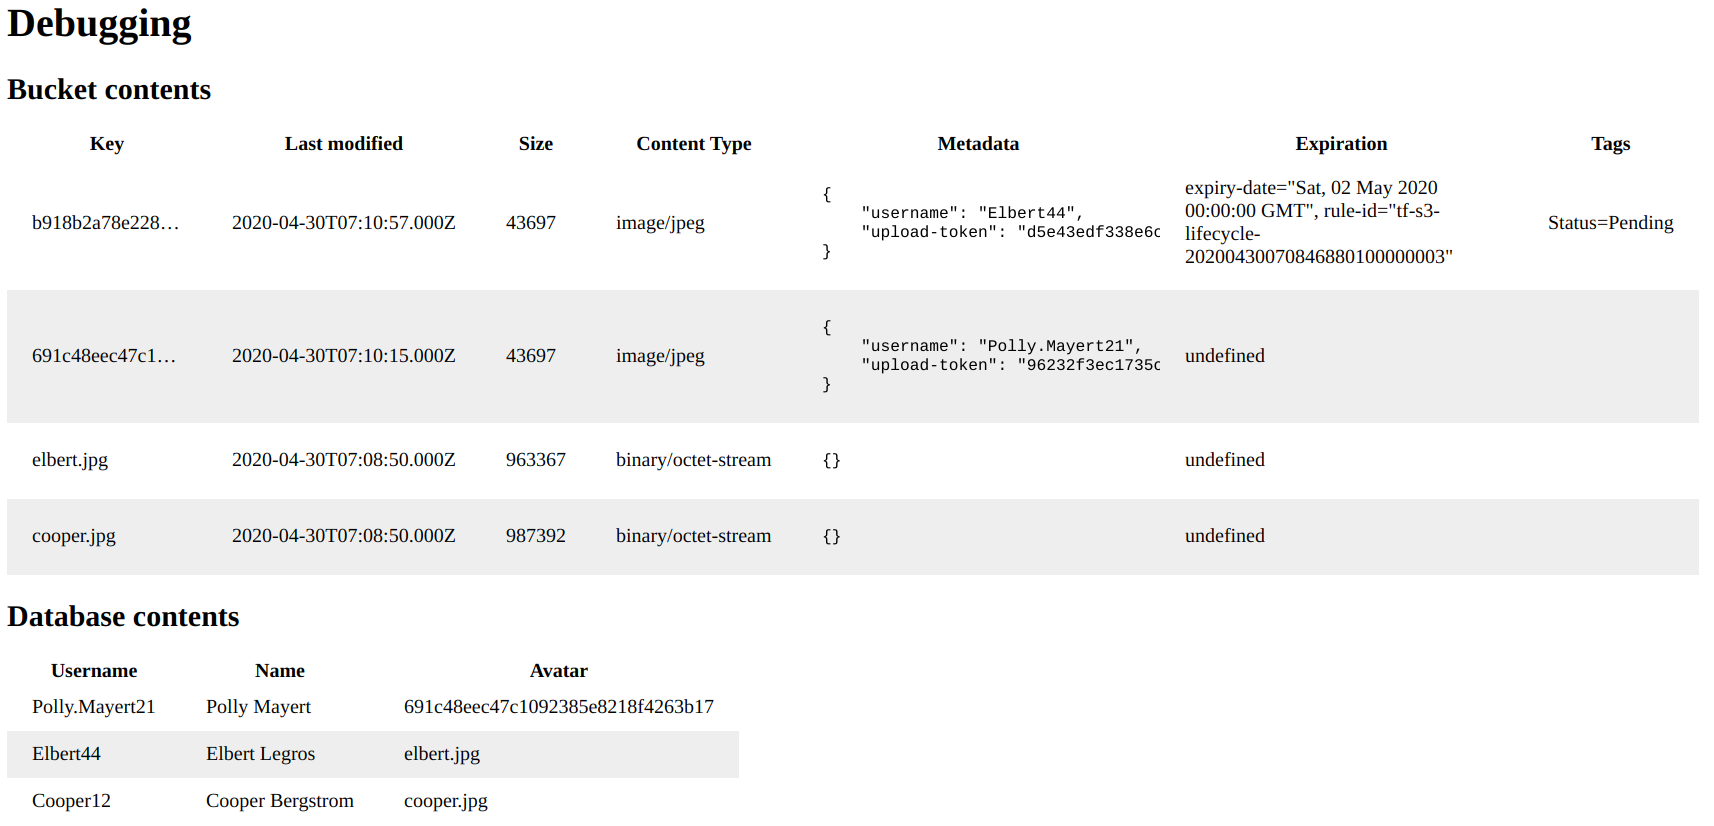
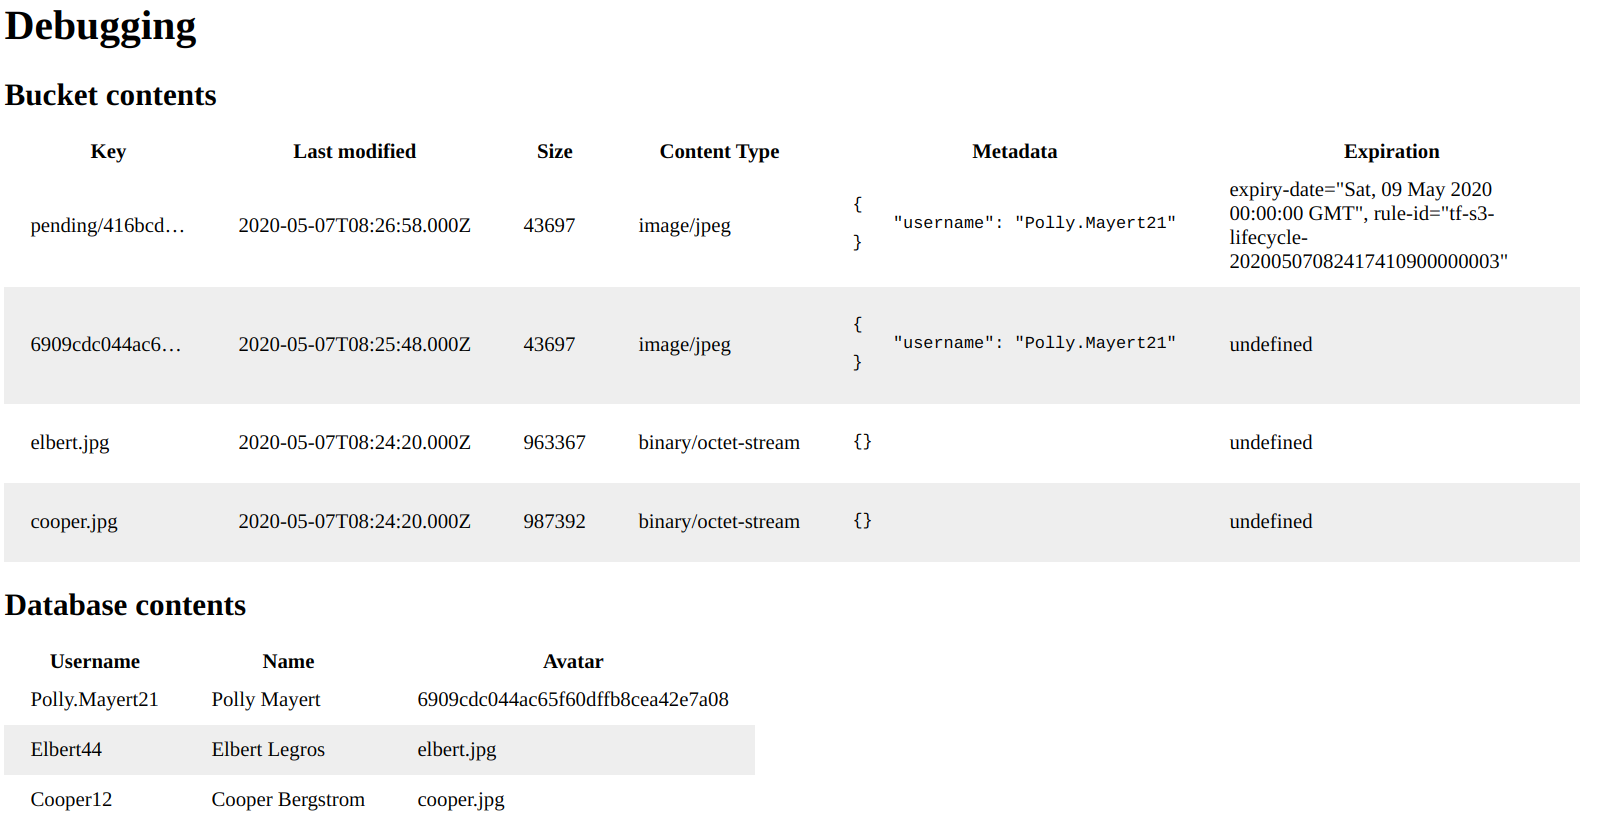
rewrite example to use a directory instead of an object tag

diff --git a/index.js b/index.js
@@ -28,7 +28,6 @@ module.exports.handler = async (event) => {
 				const objects = await s3.listObjectsV2({Bucket: process.env.BUCKET}).promise();
 				const contents = await Promise.all(objects.Contents.map(async (object) => {
 					const objectMeta = await s3.headObject({Bucket: process.env.BUCKET, Key: object.Key}).promise();
-					const objectTags = await s3.getObjectTagging({Bucket: process.env.BUCKET, Key: object.Key}).promise();
 
 					return {
 						key: object.Key,
@@ -37,14 +36,13 @@ module.exports.handler = async (event) => {
 						expiration: objectMeta.Expiration,
 						contentType: objectMeta.ContentType,
 						lastModified: objectMeta.LastModified.toISOString(),
-						tags: objectTags.TagSet.map(({Key, Value}) => `${Key}=${Value}`),
 					};
 				}));
 
 				return contents
 					.sort((a, b) => a.lastModified < b.lastModified ? -1 : a.lastModified > b.lastModified ? 1 : 0)
 					.reverse()
-					.map(({key, lastModified, size, metadata, contentType, tags, expiration}) => {
+					.map(({key, lastModified, size, metadata, contentType, expiration}) => {
 						return `
 	<tr>
 		<td>${key}</td>
@@ -55,7 +53,6 @@ module.exports.handler = async (event) => {
 			<pre>${JSON.stringify(metadata, undefined, 4)}</pre>
 		</td>
 		<td>${expiration}</td>
-		<td>${tags}</td>
 	</tr>
 						`;
 					})
@@ -143,29 +140,23 @@ module.exports.handler = async (event) => {
 		};
 	} else if (event.path === "/get_upload_url") {
 		const username = getSignedInUser(event);
-		const uploadToken = randomString();
 		const key = randomString();
 
 		const data = await util.promisify(s3.createPresignedPost.bind(s3))({
 			Bucket: process.env.BUCKET,
 			Fields: {
-				key,
+				key: `pending/${key}`,
 			},
 			Conditions: [
 				["content-length-range", 	0, 1000000], // content length restrictions: 0-1MB
 				["starts-with", "$Content-Type", "image/"], // content type restriction
 				["eq", "$x-amz-meta-username", username],
-				["eq", "$x-amz-meta-upload-token", uploadToken],
-				["eq", "$tagging", "<Tagging><TagSet><Tag><Key>Status</Key><Value>Pending</Value></Tag></TagSet></Tagging>"],
 			]
 		});
 
 		// add the required fields
 		data.fields["x-amz-meta-username"] = username;
-		data.fields["x-amz-meta-upload-token"] = uploadToken;
-		data.fields["tagging"] = "<Tagging><TagSet><Tag><Key>Status</Key><Value>Pending</Value></Tag></TagSet></Tagging>";
 
-		data.uploadToken = uploadToken;
 		data.key = key;
 
 		return {
@@ -176,39 +167,38 @@ module.exports.handler = async (event) => {
 			body: JSON.stringify(data),
 		};
 	} else if (event.path === "/update_avatar" && event.httpMethod === "POST" && event.body) {
-		const {key, uploadToken} = JSON.parse(event.body);
+		const {key} = JSON.parse(event.body);
 
-		const [objectTags, objectMeta] = await Promise.all([
-			s3.getObjectTagging({Bucket: process.env.BUCKET, Key: key}).promise(),
-			s3.headObject({Bucket: process.env.BUCKET, Key: key}).promise(),
-		]);
-		if (objectTags.TagSet.some(({Key, Value}) => Key === "Status" && Value === "Pending") && objectMeta.Metadata["upload-token"] === uploadToken) {
-			const username = getSignedInUser(event);
-			const oldAvatar = (await dynamodb.getItem({TableName: process.env.TABLE, Key: {Username: {S: username}}}).promise()).Item.Avatar.S;
+		// move object out of the pending directory
+		await s3.copyObject({
+			Bucket: process.env.BUCKET,
+			Key: key,
+			CopySource: encodeURI(`${process.env.BUCKET}/pending/${key}`),
+		}).promise();
+		await s3.deleteObject({Bucket: process.env.BUCKET, Key: `pending/${key}`}).promise();
 
-			await s3.deleteObjectTagging({Bucket: process.env.BUCKET, Key: key}).promise();
-			await dynamodb.updateItem({
-				TableName: process.env.TABLE,
-				Key: {
-					Username: {
-						S: username,
-					},
+		// set the avatar
+		const username = getSignedInUser(event);
+
+		const oldAvatar = (await dynamodb.getItem({TableName: process.env.TABLE, Key: {Username: {S: username}}}).promise()).Item.Avatar.S;
+
+		await dynamodb.updateItem({
+			TableName: process.env.TABLE,
+			Key: {
+				Username: {
+					S: username,
 				},
-				ConditionExpression: "Avatar = :oldAvatar",
-				ExpressionAttributeValues: {
-					":oldAvatar": {S: oldAvatar},
-					":newAvatar": {S: key},
-				},
-				UpdateExpression: "SET Avatar = :newAvatar"
-			}).promise();
-			await s3.deleteObject({Bucket: process.env.BUCKET, Key: oldAvatar}).promise();
-			return {
-				statusCode: 200,
-			};
-		}else {
-			return {
-				statusCode: 400,
-			};
-		}
+			},
+			ConditionExpression: "Avatar = :oldAvatar",
+			ExpressionAttributeValues: {
+				":oldAvatar": {S: oldAvatar},
+				":newAvatar": {S: key},
+			},
+			UpdateExpression: "SET Avatar = :newAvatar"
+		}).promise();
+		await s3.deleteObject({Bucket: process.env.BUCKET, Key: oldAvatar}).promise();
+		return {
+			statusCode: 200,
+		};
 	}
 };

diff --git a/index.html b/index.html
@@ -75,6 +75,16 @@
 
 			location.reload();
 		});
+		handleFileUpload("#post-doubleupload", async (file) => {
+			const data = await getUploadUrl(); // 1
+			await uploadFile(data, file); // 2
+			await updateAvatar(data); // 3
+
+			// upload again
+			await uploadFile(data, file); // 2
+
+			location.reload();
+		});
 		document.addEventListener("DOMContentLoaded", async () => {
 			// update users and the currently signed in user
 			const [users, username] = await Promise.all([
@@ -231,6 +241,10 @@
 		<p>Want to try out what happens if the user does not send the 3rd request? Use this input:</p>
 		<p>It will reload the page when it finishes</p>
 		<input id="post-noupdate" type="file"/>
+		<hr/>
+		<p>Feeling extra evil? Try what happens if the user uploads the file again after the backend processed the old one</p>
+		<p>It will reload the page when it finishes</p>
+		<input id="post-doubleupload" type="file"/>
 	</div>
 	<h1>Debugging</h1>
 	<h2>Bucket contents</h2>
@@ -243,7 +257,6 @@
 				<th>Content Type</th>
 				<th>Metadata</th>
 				<th>Expiration</th>
-				<th>Tags</th>
 			</tr>
 			<tbody>$$BUCKET_CONTENTS$$</tbody>
 		</thead>

diff --git a/README.md b/README.md
@@ -12,11 +12,14 @@ When a user uploads a new image, it uses a 3-phase fetch:
 
 ### Security
 
-An ```upload-token``` value is generated when the browser requests a presigned POST URL and that is added to the object. When the browser sends the third fetch, it must present this value and this proves that the upload was done by the same user.
+The uploaded object key is randomly generated on the backend without any influence from the client. When the browser sends the third fetch, it sends back this
+key both as a proof that it knows and also to help the backend identify the file.
 
-A Status=Pending object tag is also added to the uploaded object and a bucket lifecycle rule makes sure it is cleaned after a few days. When the database is updated this tag is removed.
+When an object is uploaded by the client, it is put into the ```pending/``` directory inside the bucket. There is a lifecycle rule that makes sure objects
+in this directory are cleaned after a few days. When the database is updated and the uploaded file is in use the backend moves the object out of this directory.
 
 If a user accidentally or deliberately does not send the third request, the old image will be used and the uploaded file will be deleted automatically.
+Also, if the user uploads the file again as the POST URL is still valid, it will be cleaned up.
 
 ## How to deploy
 
@@ -68,20 +71,12 @@ Under the hood, the 3 fetches can be observed in the devtools:
 
 If any of the 2 fetches are producing an error then nothing permanent happens. The backend does not keep track of presigned URLs and if the upload was unsuccessful then an object won't be stored in the S3 bucket. But what happens if the third fetch is missing, either accidentally (the browser crashed) or deliberately?
 
-When the image is uploaded, it gets the Status=Pending tag and a bucket lifecycle rule cleans it up after a few days. To observe how it works, use the second file input which skips the third fetch.
+When the image is uploaded, it is put into the ```pending/``` directory and a bucket lifecycle rule cleans it up after a few days. To observe how it works, use the second file input which skips the third fetch.
 
 When using that input, observe that the avatar is not changed and there is a new object stored in the bucket:
 
 ![](docs/pending_object.png)
 
-Notice that it has the Status=Pending tag and there is an expiration time. S3 will automatically delete this object.
-
-On the S3 console, a lifecycle rule looks like this:
-
-![](docs/lifecycle_rule.png)
-
-And the expiring object:
-
-![](docs/s3_console.png)
+Notice that it has an expiration time. S3 will automatically delete this object.
 
 The user data is generated with [Faker.js](https://github.com/marak/Faker.js/). The initial avatar images are from [https://thispersondoesnotexist.com/](https://thispersondoesnotexist.com/). The cat image is from [https://thecatapi.com/](https://thecatapi.com/).
